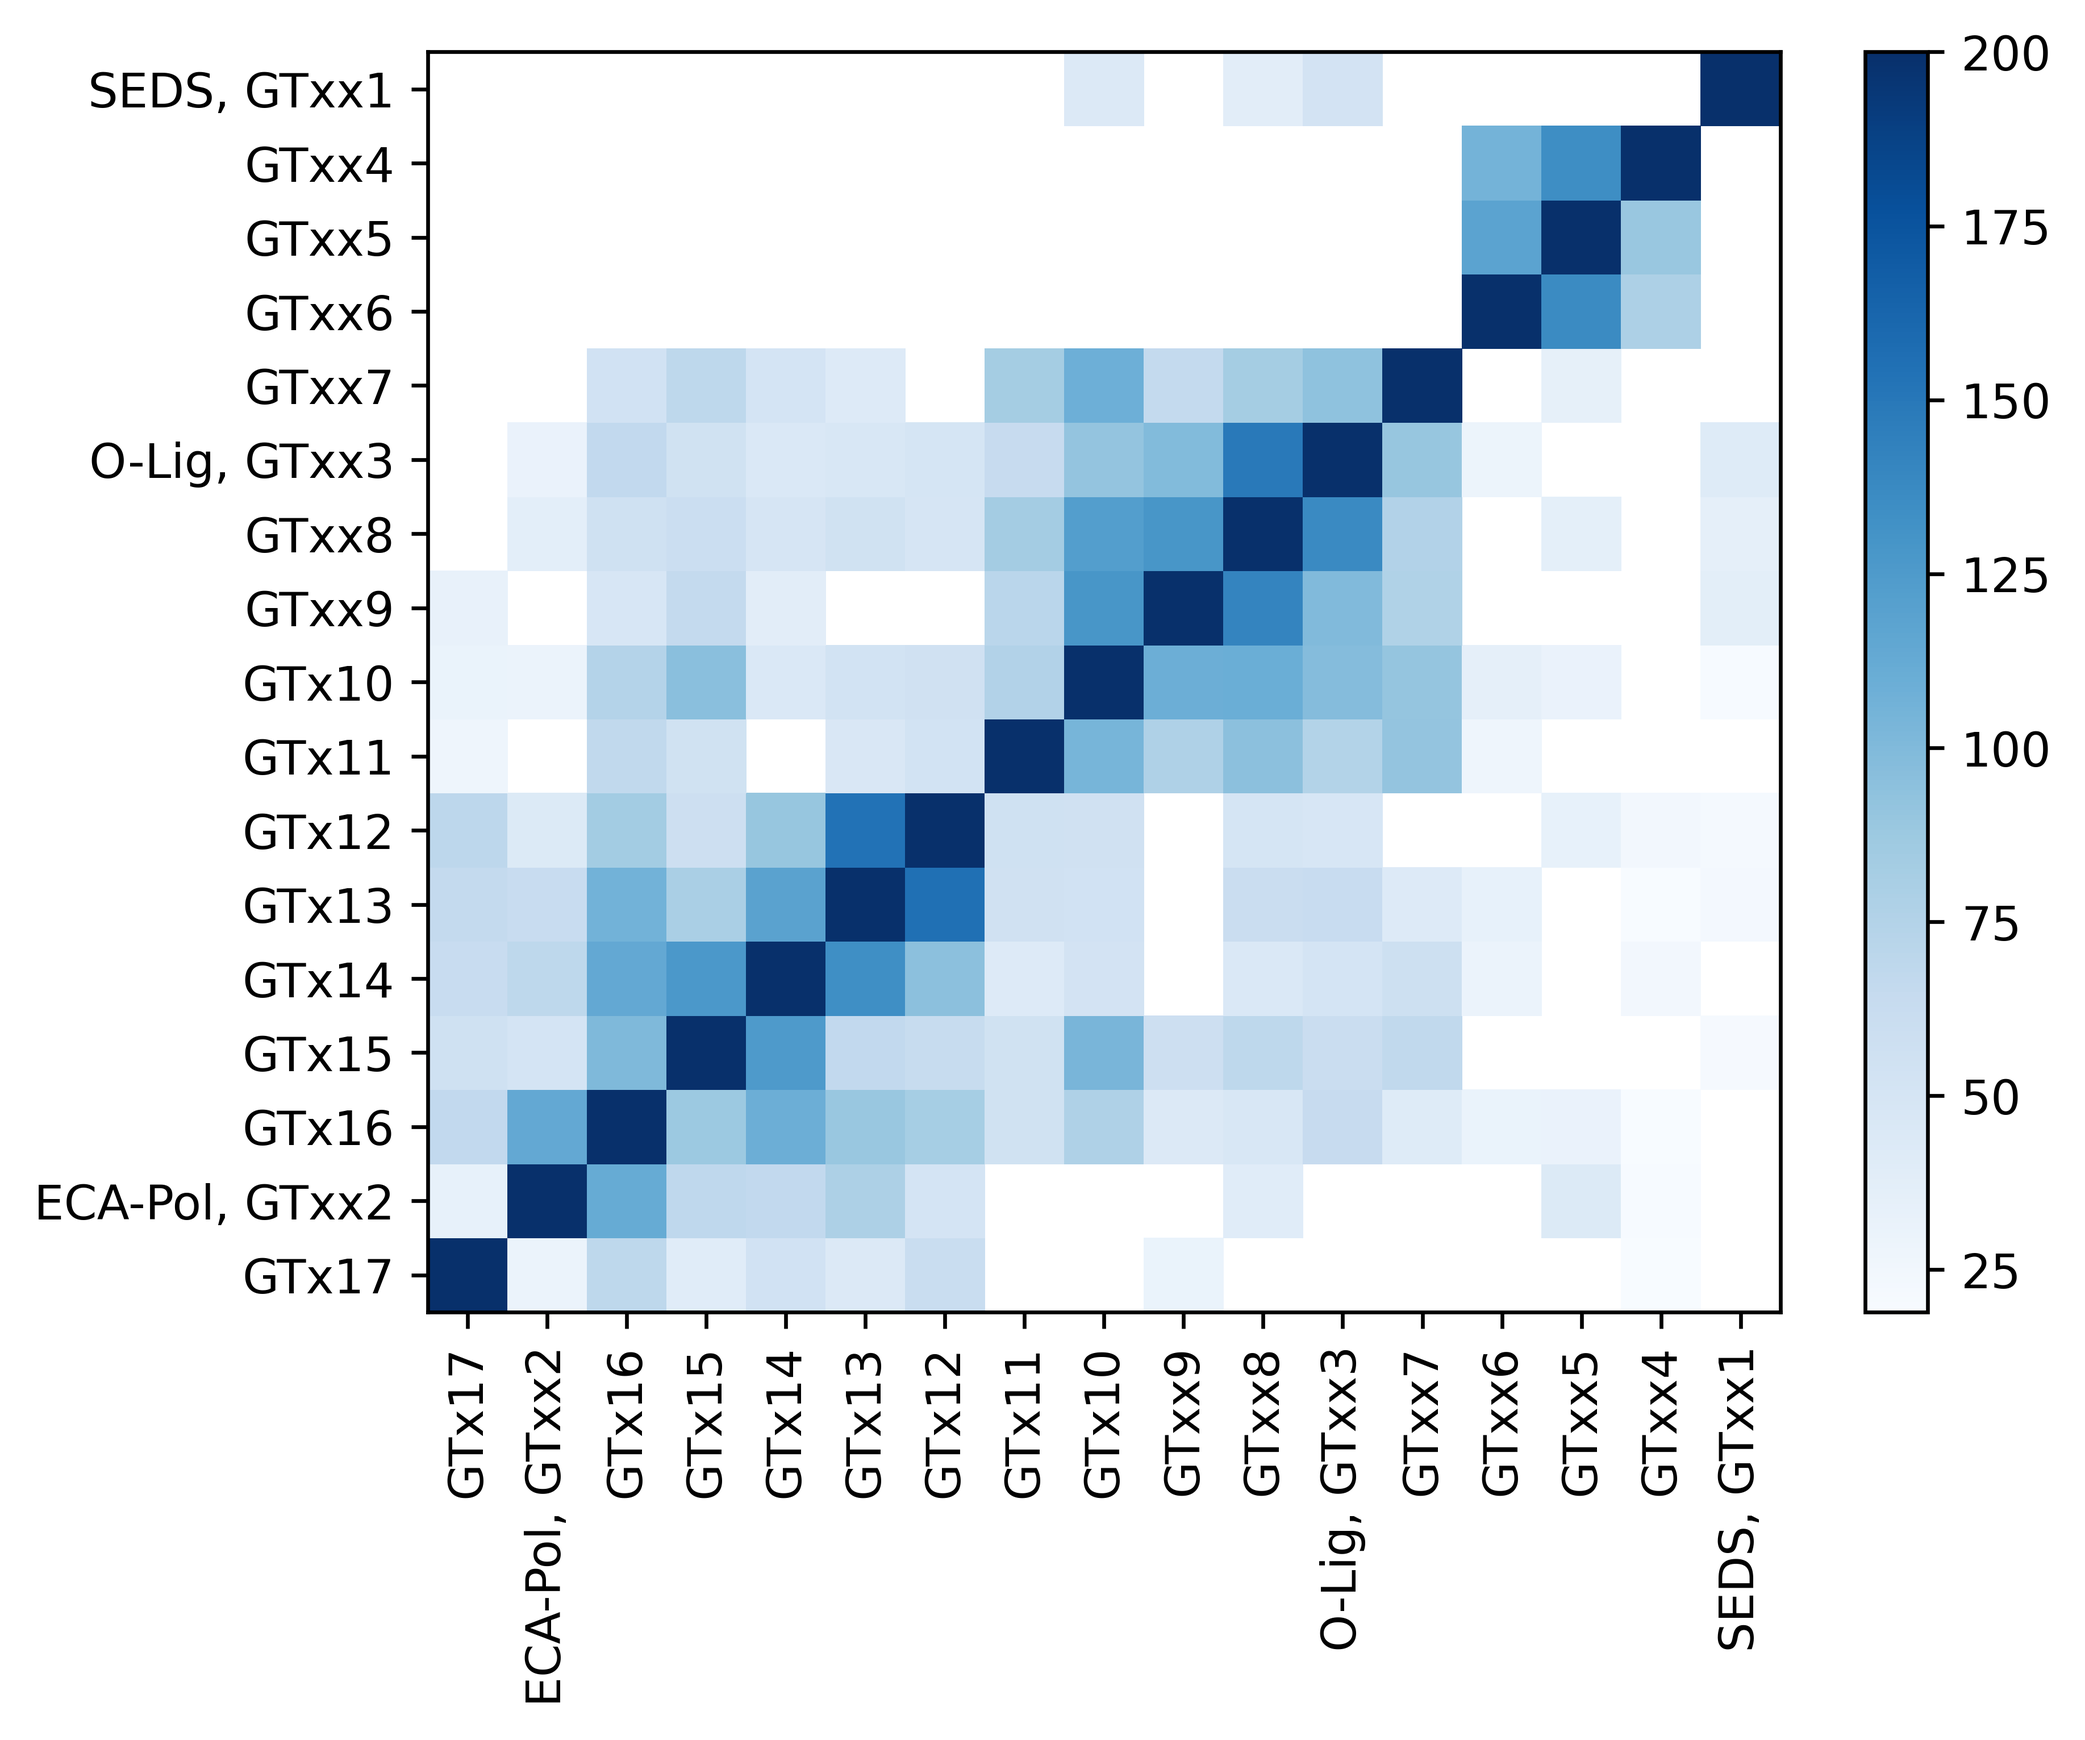
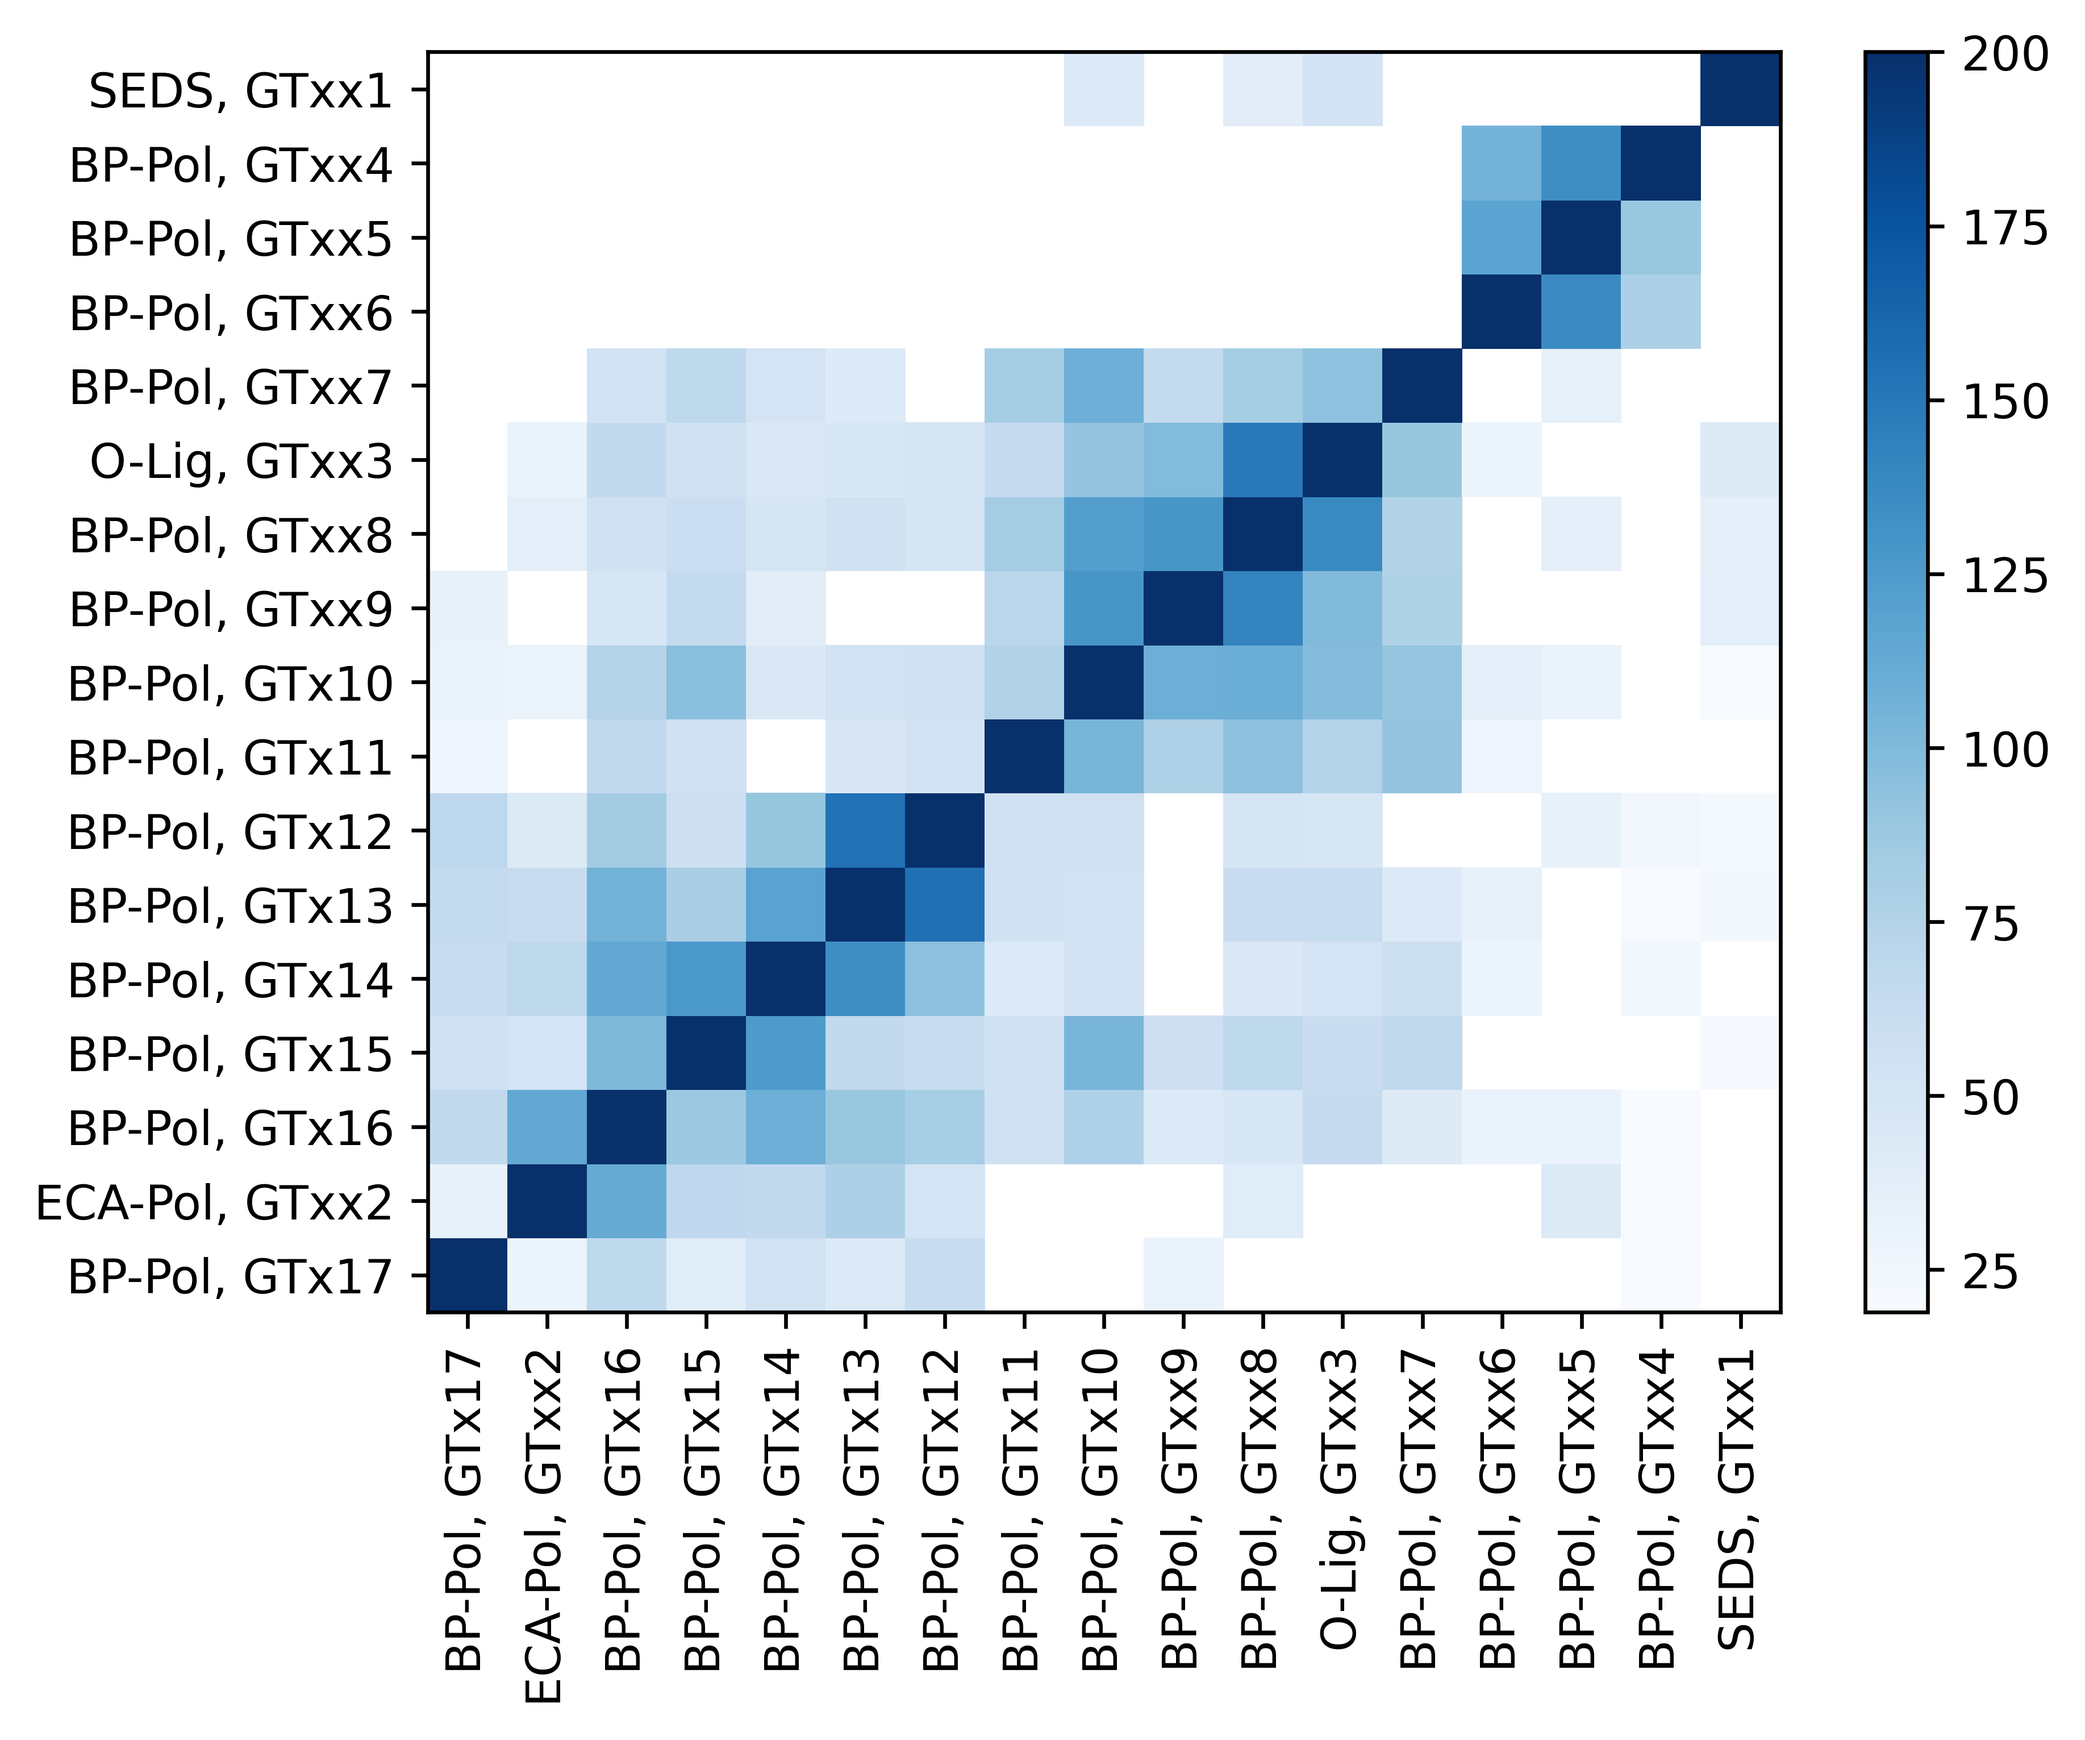
correction in heatmap

diff --git a/src/compare-cazy-families/make-heatmap.py b/src/compare-cazy-families/make-heatmap.py
@@ -18,9 +18,9 @@ acc2name = {'ADC54950.1':'X612', 'AHB32861.1':'X617', 'cazy201071':'SEDS, X571',
 }
 
 old2newnames = {'SEDS, X571': 'SEDS, GTxx1',
-         'X617': 'GTxx4', 'X631': 'GTxx5', 'X634': 'GTxx6',
-         'X613': 'GTxx7', 'O-Lig, X615': 'O-Lig, GTxx3', 'X614': 'GTxx8', 'X609': 'GTxx9', 'X607': 'GTx10', 'X605': 'GTx11',
-         'X610': 'GTx12', 'X612': 'GTx13', 'X606': 'GTx14', 'X611': 'GTx15', 'X608': 'GTx16', 'ECA-Pol, X586': 'ECA-Pol, GTxx2', 'X633': 'GTx17'}
+         'X617': 'BP-Pol, GTxx4', 'X631': 'BP-Pol, GTxx5', 'X634': 'BP-Pol, GTxx6',
+         'X613': 'BP-Pol, GTxx7', 'O-Lig, X615': 'O-Lig, GTxx3', 'X614': 'BP-Pol, GTxx8', 'X609': 'BP-Pol, GTxx9', 'X607': 'BP-Pol, GTx10', 'X605': 'BP-Pol, GTx11',
+         'X610': 'BP-Pol, GTx12', 'X612': 'BP-Pol, GTx13', 'X606': 'BP-Pol, GTx14', 'X611': 'BP-Pol, GTx15', 'X608': 'BP-Pol, GTx16', 'ECA-Pol, X586': 'ECA-Pol, GTxx2', 'X633': 'BP-Pol, GTx17'}
 
 mydict = dict()
 for filename in hhr_filenames:
@@ -52,9 +52,9 @@ for index, row in df.iterrows():
 #     ]
 
 order = ['SEDS, GTxx1',
-         'GTxx4', 'GTxx5', 'GTxx6',
-         'GTxx7', 'O-Lig, GTxx3', 'GTxx8', 'GTxx9', 'GTx10', 'GTx11',
-         'GTx12', 'GTx13', 'GTx14', 'GTx15', 'GTx16', 'ECA-Pol, GTxx2', 'GTx17',
+         'BP-Pol, GTxx4', 'BP-Pol, GTxx5', 'BP-Pol, GTxx6',
+         'BP-Pol, GTxx7', 'O-Lig, GTxx3', 'BP-Pol, GTxx8', 'BP-Pol, GTxx9', 'BP-Pol, GTx10', 'BP-Pol, GTx11',
+         'BP-Pol, GTx12', 'BP-Pol, GTx13', 'BP-Pol, GTx14', 'BP-Pol, GTx15', 'BP-Pol, GTx16', 'ECA-Pol, GTxx2', 'BP-Pol, GTx17',
          ]
 
 df = df.loc[reversed(order), reversed(order)]
